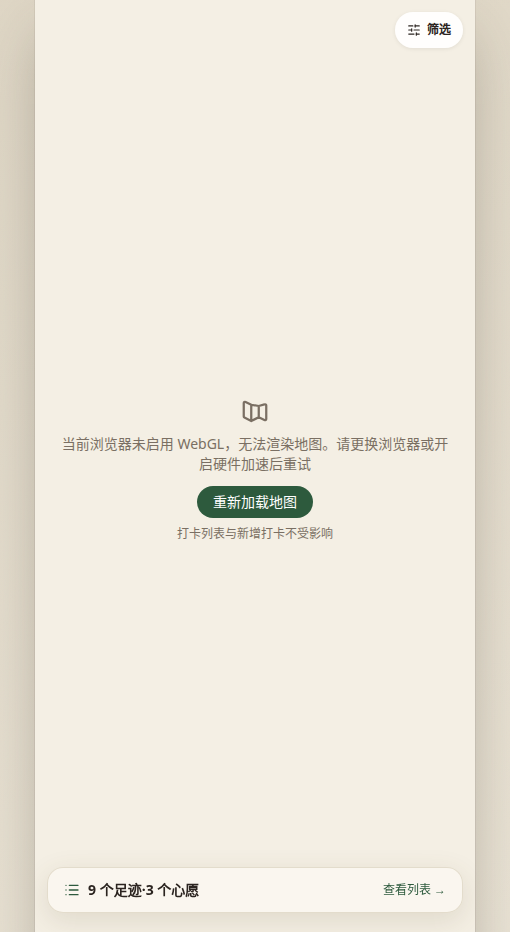
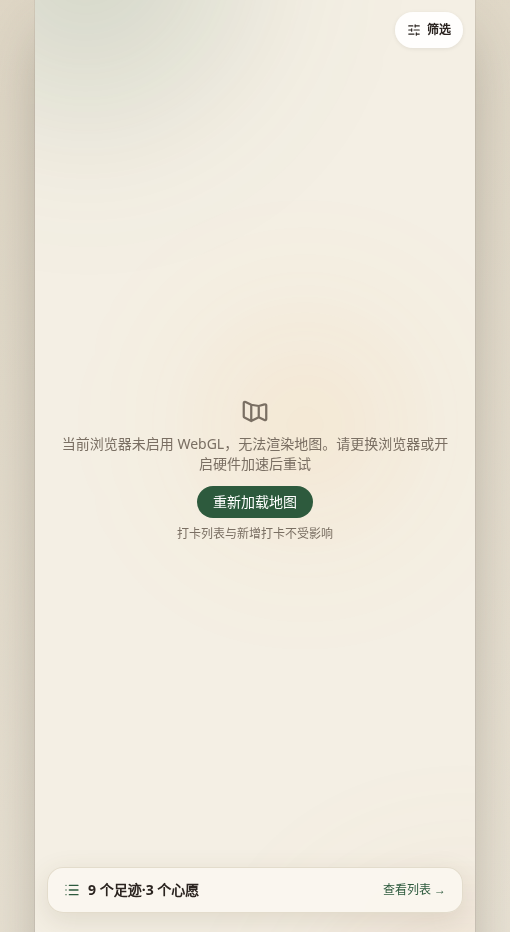
加强全站动态背景 + 搜索输入即搜防竞态
- 动态背景：4 色光球（绿/橙/金/玫红）、透明度 0.85、模糊降到 38px、漂移更快更明显
- 搜索：输入即搜（350ms 防抖）、序号防竞态避免候选列表乱跳、加搜索中/无结果状态
- 新增 --theme-rose 主题色变量

diff --git a/frontend/src/pages/CheckinForm.tsx b/frontend/src/pages/CheckinForm.tsx
@@ -188,16 +188,21 @@ export default function CheckinForm({ checkinId }: { checkinId?: string }) {
     }
   }
 
-  const searchPlace = async () => {    if (!query.trim()) return
+  const searchPlace = async (q?: string) => {
+    const kw = (q ?? query).trim()
+    if (!kw) { setResults([]); return }
+    const seq = ++searchSeq.current
     setSearching(true)
     try {
-      const res = await lbs.searchPlace(query.trim(), {
+      const res = await lbs.searchPlace(kw, {
         boundary: 'region(全国,0)',
         pageSize: 10,
         pageIndex: 1,
       })
+      if (seq !== searchSeq.current) return
       setResults(res.data ?? [])
     } catch (e) {
+      if (seq !== searchSeq.current) return
       // 域名未授权是最常见的搜索失败场景：给出简短、指向真实解法的提示，
       // 不把 SDK 的长报错原文（带 URL）直接甩给用户。
       if (e instanceof LBSError && e.status === LBS_ERROR_CODES.UNAUTHORIZED_REFERER) {
@@ -206,10 +211,19 @@ export default function CheckinForm({ checkinId }: { checkinId?: string }) {
       } else {
         toast.error(e instanceof LBSError ? t(e.getSolution()) : t('地点搜索失败，请稍后重试'))
       }
+      setResults([])
     } finally {
-      setSearching(false)
+      if (seq === searchSeq.current) setSearching(false)
     }
   }
+
+  // 输入即搜：停止输入 350ms 后自动触发，避免每次按键都打接口、候选列表乱跳
+  useEffect(() => {
+    const kw = query.trim()
+    if (!kw) { setResults([]); return }
+    const tid = setTimeout(() => { void searchPlace(kw) }, 350)
+    return () => clearTimeout(tid)
+  }, [query])
 
   const pickPlace = (poi: POI) => {
     set('place_name', poi.title)
@@ -355,12 +369,18 @@ export default function CheckinForm({ checkinId }: { checkinId?: string }) {
                     onChange={(e) => setQuery(e.target.value)}
                     onKeyDown={(e) => e.key === 'Enter' && searchPlace()}
                   />
-                  <Button variant="outline" onClick={searchPlace} disabled={searching}>
+                  <Button variant="outline" onClick={() => searchPlace()} disabled={searching}>
                     {searching ? <Loader2 className="h-4 w-4 animate-spin" /> : <Search className="h-4 w-4" />}
                   </Button>
                 </div>
-                {results.length > 0 && (
+                {(searching || results.length > 0 || query.trim()) && (
                   <div className="max-h-56 overflow-auto rounded-lg border" style={{ borderColor: 'var(--border)' }}>
+                    {searching && (
+                      <p className="px-3 py-2 text-sm" style={{ color: 'var(--muted-foreground)' }}>{t('搜索中…')}</p>
+                    )}
+                    {!searching && results.length === 0 && query.trim() && (
+                      <p className="px-3 py-2 text-sm" style={{ color: 'var(--muted-foreground)' }}>{t('未找到相关地点，换个词试试')}</p>
+                    )}
                     {results.map((poi) => (
                       <button
                         key={poi.id}

diff --git a/frontend/src/index.css b/frontend/src/index.css
@@ -180,6 +180,7 @@
   --theme-green: oklch(0.62 0.16 158);
   --theme-gold: oklch(0.78 0.17 65);
   --theme-blue: oklch(0.62 0.17 245);
+  --theme-rose: oklch(0.72 0.13 20);
 
   /* === 分类颜色已移除 — 分类用图标区分，不用颜色 === */
 /* === 图表颜色 === */
@@ -546,38 +547,47 @@
 .ambient-blob {
   position: absolute;
   border-radius: 50%;
-  filter: blur(60px);
-  opacity: 0.55;
+  filter: blur(38px);
+  opacity: 0.85;
   mix-blend-mode: multiply;
   will-change: transform;
 }
 .ambient-blob--1 {
-  width: 68vw;
-  height: 68vw;
-  left: -18vw;
-  top: -16vh;
-  background: radial-gradient(circle at 38% 38%, color-mix(in oklab, var(--primary) 40%, transparent), transparent 68%);
-  animation: ambient-drift 24s ease-in-out infinite;
+  width: 92vw;
+  height: 92vw;
+  left: -26vw;
+  top: -22vh;
+  background: radial-gradient(circle at 38% 38%, color-mix(in oklab, var(--primary) 62%, transparent), transparent 64%);
+  animation: ambient-drift 18s ease-in-out infinite;
 }
 .ambient-blob--2 {
-  width: 60vw;
-  height: 60vw;
-  right: -20vw;
-  bottom: -18vh;
-  background: radial-gradient(circle at 62% 62%, color-mix(in oklab, var(--accent) 34%, transparent), transparent 68%);
-  animation: ambient-drift 30s ease-in-out infinite reverse;
+  width: 84vw;
+  height: 84vw;
+  right: -28vw;
+  bottom: -24vh;
+  background: radial-gradient(circle at 62% 62%, color-mix(in oklab, var(--accent) 54%, transparent), transparent 64%);
+  animation: ambient-drift 24s ease-in-out infinite reverse;
 }
 .ambient-blob--3 {
-  width: 52vw;
-  height: 52vw;
-  left: 26vw;
-  top: 30vh;
-  background: radial-gradient(circle at 50% 50%, color-mix(in oklab, var(--theme-gold, #d9b25f) 26%, transparent), transparent 70%);
-  animation: ambient-drift 36s ease-in-out infinite;
+  width: 70vw;
+  height: 70vw;
+  left: 18vw;
+  top: 26vh;
+  background: radial-gradient(circle at 50% 50%, color-mix(in oklab, var(--theme-gold, #d9b25f) 46%, transparent), transparent 66%);
+  animation: ambient-drift 30s ease-in-out infinite;
+}
+.ambient-blob--4 {
+  width: 56vw;
+  height: 56vw;
+  right: 8vw;
+  top: 8vh;
+  background: radial-gradient(circle at 50% 50%, color-mix(in oklab, var(--theme-rose, #e0a3a3) 40%, transparent), transparent 68%);
+  animation: ambient-drift 21s ease-in-out infinite reverse;
 }
 @keyframes ambient-drift {
   0% { transform: translate3d(0, 0, 0) scale(1); }
-  50% { transform: translate3d(4%, -5%, 0) scale(1.12); }
+  33% { transform: translate3d(6%, -7%, 0) scale(1.18); }
+  66% { transform: translate3d(-5%, 4%, 0) scale(1.08); }
   100% { transform: translate3d(0, 0, 0) scale(1); }
 }
 @media (prefers-reduced-motion: reduce) {

diff --git a/frontend/src/lib/locales/en.ts b/frontend/src/lib/locales/en.ts
@@ -79,6 +79,8 @@ const en = {
   '「AI 建议标签」还未开通：需要配置 AI 密钥后才能使用': '“AI suggest tags” is not enabled yet: an AI key must be configured first',
   '地点搜索暂不可用：需要把本站域名加入腾讯位置服务的授权名单': 'Place search is unavailable: this site’s domain must be added to Tencent LBS allowlist',
   '地点搜索失败，请稍后重试': 'Place search failed, please retry later',
+  '搜索中…': 'Searching…',
+  '未找到相关地点，换个词试试': 'No matching places — try another keyword',
   '已上传 {{count}} 张照片': 'Uploaded {{count}} photo(s)',
   '{{n}} 张': '{{n}} photos',
   '照片处理失败，请换一张试试': 'Photo processing failed, try another one',

diff --git a/frontend/src/components/AmbientBackground.tsx b/frontend/src/components/AmbientBackground.tsx
@@ -10,6 +10,7 @@ export default function AmbientBackground() {
       <span className="ambient-blob ambient-blob--1" />
       <span className="ambient-blob ambient-blob--2" />
       <span className="ambient-blob ambient-blob--3" />
+      <span className="ambient-blob ambient-blob--4" />
     </div>
   )
 }
